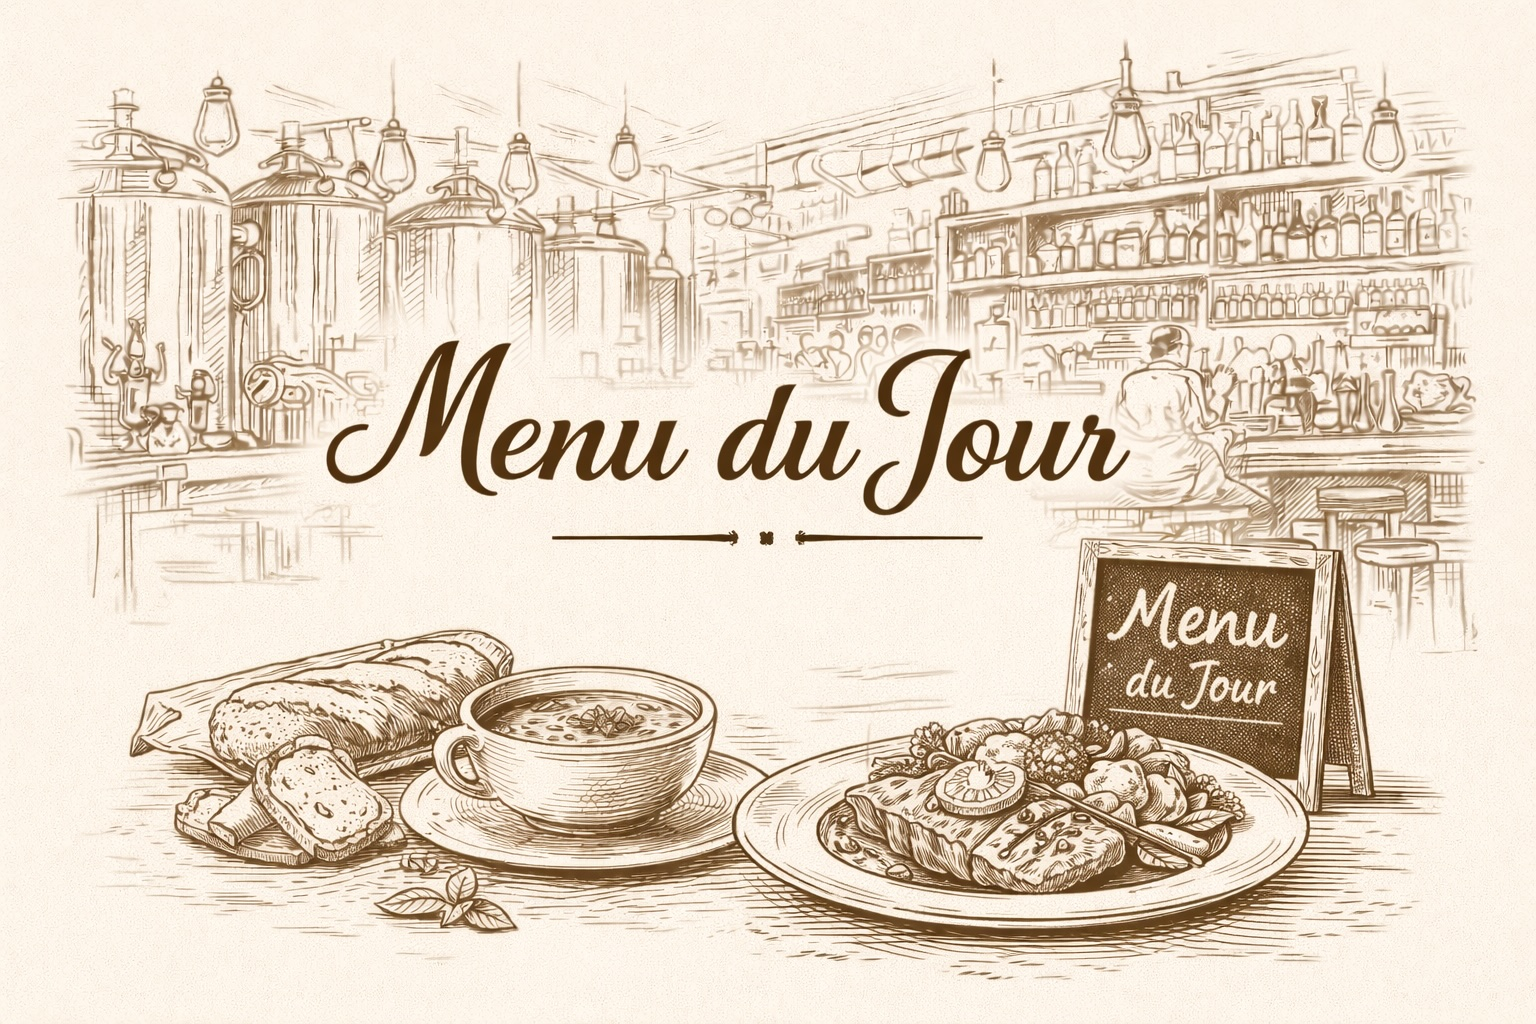
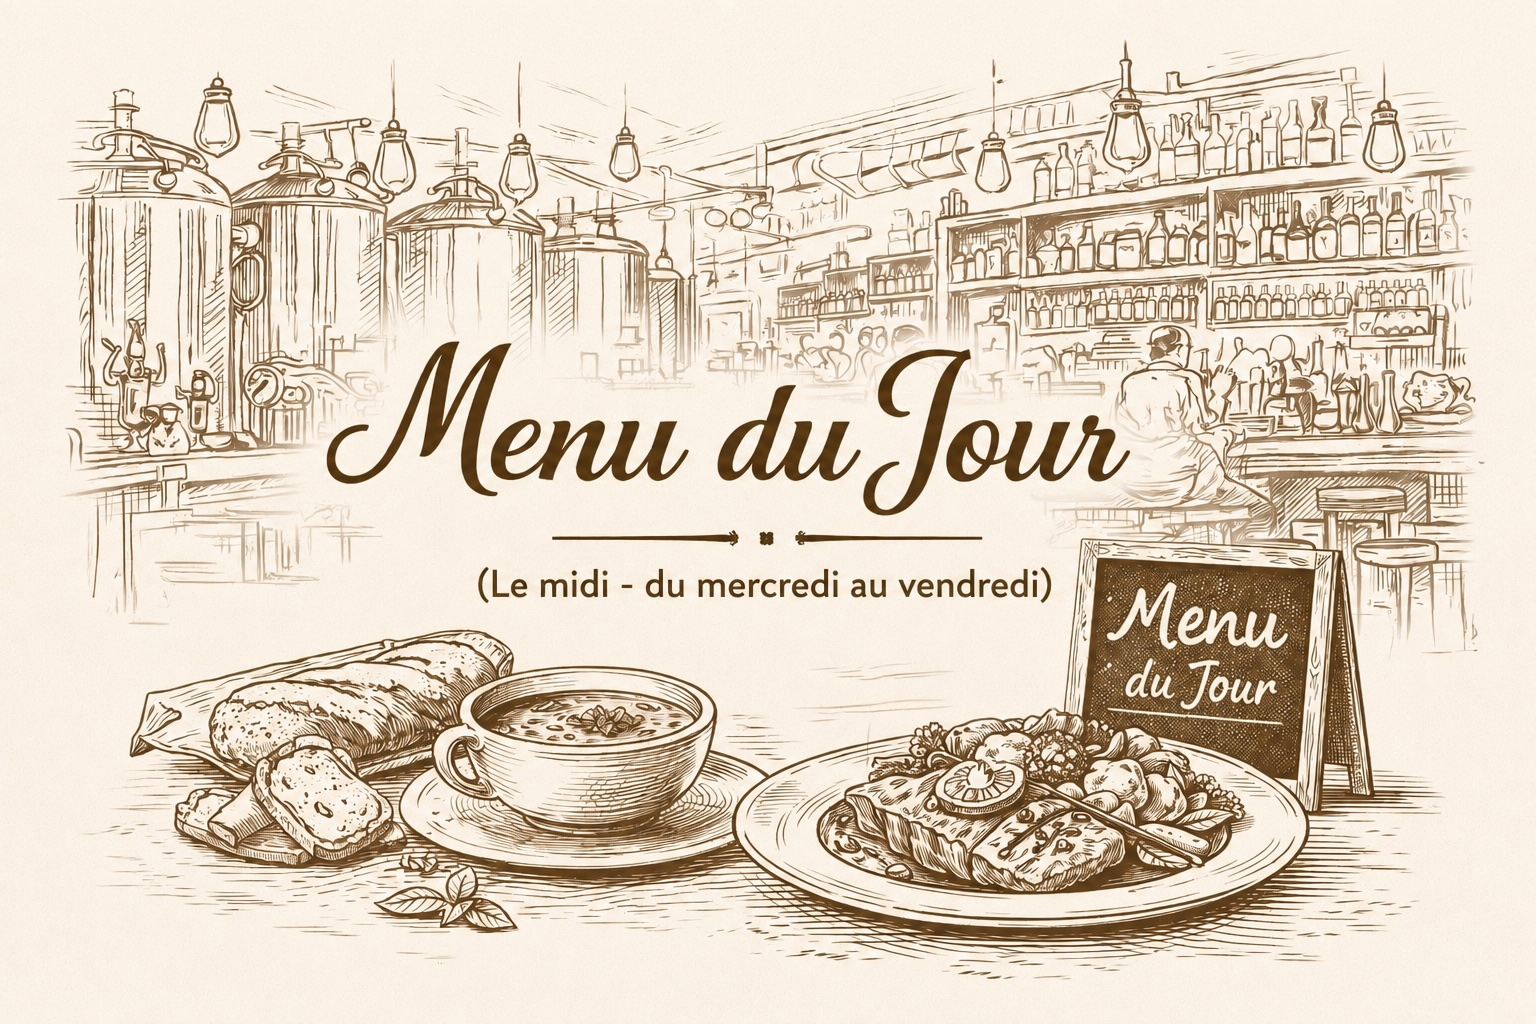
Modifications suite première présentation

diff --git a/src/app/cartePizzas/page.js b/src/app/cartePizzas/page.js
@@ -7,7 +7,7 @@ export default function CartePizzasPage() {
       <Header />
       <main className="py-8 px-4 max-w-4xl mx-auto bg-gray-50">
         <h1 className="text-3xl font-bold text-center mb-6">
-          Pizzas & Burgers (sur place ou à emporter)
+          Pizzas & Burgers à emporter
         </h1>
         <div className="bg-amber-50 rounded shadow p-4">
           <h2 className="text-xl font-semibold text-center underline">
@@ -23,7 +23,7 @@ export default function CartePizzasPage() {
                   cornichons, sauce burger
                 </p>
               </div>
-              <p>14.00€</p>
+              <p>13.00€</p>
             </li>
             <li className="flex justify-between my-2">
               <div className="flex flex-col">
@@ -33,7 +33,7 @@ export default function CartePizzasPage() {
                   confiture d&apos;oignons, cornichons, sauce burger
                 </p>
               </div>
-              <p>15.50€</p>
+              <p>14.50€</p>
             </li>
             <li className="flex justify-between my-2">
               <div className="flex flex-col">
@@ -43,7 +43,7 @@ export default function CartePizzasPage() {
                   confiture d&apos;oignons, cornichons, sauce burger
                 </p>
               </div>
-              <p>14.50€</p>
+              <p>13.50€</p>
             </li>
           </ul>
           <h2 className="text-xl font-semibold text-center underline mt-8">
@@ -55,21 +55,21 @@ export default function CartePizzasPage() {
                 <p>Bambino (enfant)</p>
                 <p className="text-gray-600">Tomate, mozzarella, jambon</p>
               </div>
-              <p>7.50€</p>
+              <p>6.50€</p>
             </li>
             <li className="flex justify-between my-2">
               <div className="flex flex-col">
                 <p>Margarita</p>
                 <p className="text-gray-600">Tomate, mozzarella, olives</p>
               </div>
-              <p>8.50€</p>
+              <p>7.50€</p>
             </li>
             <li className="flex justify-between my-2">
               <div className="flex flex-col">
                 <p>Venise</p>
                 <p className="text-gray-600">Tomate, mozzarella, jambon</p>
               </div>
-              <p>9.50€</p>
+              <p>8.50€</p>
             </li>
             <li className="flex justify-between my-2">
               <div className="flex flex-col">
@@ -78,7 +78,7 @@ export default function CartePizzasPage() {
                   Tomate, fromage, jambon, champignons
                 </p>
               </div>
-              <p>11.00€</p>
+              <p>10.00€</p>
             </li>
             <li className="flex justify-between my-2">
               <div className="flex flex-col">
@@ -87,7 +87,7 @@ export default function CartePizzasPage() {
                   Tomate, mozzarella, jambon cru, crème fraîche, oeuf
                 </p>
               </div>
-              <p>12.50€</p>
+              <p>11.50€</p>
             </li>
             <li className="flex justify-between my-2">
               <div className="flex flex-col">
@@ -96,7 +96,7 @@ export default function CartePizzasPage() {
                   Tomate, mozzarella, anchois, champignons, câpres, olives
                 </p>
               </div>
-              <p>13.00€</p>
+              <p>12.00€</p>
             </li>
             <li className="flex justify-between my-2">
               <div className="flex flex-col">
@@ -106,7 +106,7 @@ export default function CartePizzasPage() {
                   tomates cerises, olives, persillade
                 </p>
               </div>
-              <p>13.00€</p>
+              <p>12.00€</p>
             </li>
             <li className="flex justify-between my-2">
               <div className="flex flex-col">
@@ -115,7 +115,7 @@ export default function CartePizzasPage() {
                   Tomate, mozzarella, chèvre, gorgonzola, reblochon
                 </p>
               </div>
-              <p>13.00€</p>
+              <p>12.00€</p>
             </li>
             <li className="flex justify-between my-2">
               <div className="flex flex-col">
@@ -125,7 +125,7 @@ export default function CartePizzasPage() {
                   rouges
                 </p>
               </div>
-              <p>13.00€</p>
+              <p>12.00€</p>
             </li>
             <li className="flex justify-between my-2">
               <div className="flex flex-col">
@@ -135,7 +135,7 @@ export default function CartePizzasPage() {
                   persillade
                 </p>
               </div>
-              <p>13.00€</p>
+              <p>12.00€</p>
             </li>
             <li className="flex justify-between my-2">
               <div className="flex flex-col">
@@ -144,7 +144,7 @@ export default function CartePizzasPage() {
                   Tomate, mozzarella, chorizo, merguez, poivrons, oignons rouges
                 </p>
               </div>
-              <p>13.00€</p>
+              <p>12.00€</p>
             </li>
             <li className="flex justify-between my-2">
               <div className="flex flex-col">
@@ -154,7 +154,7 @@ export default function CartePizzasPage() {
                   lardons, crème fraîche
                 </p>
               </div>
-              <p>14.00€</p>
+              <p>13.00€</p>
             </li>
             <li className="flex justify-between my-2">
               <div className="flex flex-col">
@@ -164,7 +164,7 @@ export default function CartePizzasPage() {
                   ananas
                 </p>
               </div>
-              <p>14.00€</p>
+              <p>13.00€</p>
             </li>
             <li className="flex justify-between my-2">
               <div className="flex flex-col">
@@ -174,7 +174,7 @@ export default function CartePizzasPage() {
                   rouges, sauce blanche
                 </p>
               </div>
-              <p>14.00€</p>
+              <p>13.00€</p>
             </li>
             <li className="flex justify-between my-2">
               <div className="flex flex-col">
@@ -184,7 +184,7 @@ export default function CartePizzasPage() {
                   d&apos;ail
                 </p>
               </div>
-              <p>14.50€</p>
+              <p>13.50€</p>
             </li>
             <li className="flex justify-between my-2">
               <div className="flex flex-col">
@@ -197,7 +197,7 @@ export default function CartePizzasPage() {
                   Modification en base crème: +0.50€
                 </p>
               </div>
-              <p>15.50€</p>
+              <p>14.50€</p>
             </li>
           </ul>
           <p className="underline mt-4 font-bold">Base crème:</p>
@@ -211,7 +211,7 @@ export default function CartePizzasPage() {
                   </p>
                 </div>
               </div>
-              <p>14.50€</p>
+              <p>12.50€</p>
             </li>
             <li className="flex justify-between my-2">
               <div className="flex flex-col">
@@ -221,7 +221,7 @@ export default function CartePizzasPage() {
                   Rhuys, champignons
                 </p>
               </div>
-              <p>14.00€</p>
+              <p>13.00€</p>
             </li>
             <li className="flex justify-between my-2">
               <div className="flex flex-col">
@@ -230,19 +230,28 @@ export default function CartePizzasPage() {
                   Crème fraîche, mozzarella, chèvre, coppa, oignons rouges, miel
                 </p>
               </div>
-              <p>13.00€</p>
+              <p>12.00€</p>
             </li>
             <li className="flex justify-between my-2">
               <div className="flex flex-col">
-                <p className="font-bold">Supplément hors viande</p>
+                <p className="font-bold">
+                  <sup>*</sup>Modification en base crème
+                </p>
+              </div>
+              <p>+0.50€</p>
+            </li>
+            <li className="flex justify-between my-2">
+              <div className="flex flex-col">
+                <p className="font-bold">
+                  <sup>*</sup>Supplément légumes, oeuf
+                </p>
               </div>
               <p>1.30€</p>
             </li>
             <li className="flex justify-between my-2">
               <div className="flex flex-col">
-                <p className="font-bold">Supplément viande</p>
-                <p className="text-gray-600">
-                  merguez, chorizo, poulet, viande hachée
+                <p className="font-bold">
+                  <sup>*</sup>Supplément viande, poisson
                 </p>
               </div>
               <p>1.80€</p>

diff --git a/src/components/Section1Contact/index.jsx b/src/components/Section1Contact/index.jsx
@@ -25,12 +25,12 @@ export function Section1Contact() {
                   Téléphone : [phone redacted]
                 </a>
                 <br />
-                <a
+                {/*<a
                   href="mailto:[email redacted]"
                   className="hover:underline"
                 >
                   Email : [email redacted]
-                </a>
+                </a>*/}
               </p>
             </div>
           </div>
@@ -41,7 +41,22 @@ export function Section1Contact() {
             <p>
               Lundi - Mardi : Fermé
               <br />
-              Mercredi - Dimanche : 09h00 - 22h00
+              <span className="font-semibold underline">Bar</span>
+              <br />
+              Mercredi - Dimanche : 10h00 - 22h00
+              <br />
+              <span className="font-semibold underline">Restaurant</span>
+              <br />
+              midi: 12h00 - 14h00
+              <br />
+              soir: 19h00 - 20h30<sup className="text-sm font-light">
+                *
+              </sup>{' '}
+              (fin de service)
+              <br />
+              <span className="text-sm font-light">
+                *21h00 le vendredi et samedi
+              </span>
             </p>
           </div>
         </div>

diff --git a/src/app/page.js b/src/app/page.js
@@ -1,9 +1,9 @@
-import Image from 'next/image';
-import Header from '@/components/Header';
-import Footer from '@/components/Footer';
-import { Section1Accueil } from '@/components/Section1Accueil';
-import { Section2Accueil } from '@/components/Section2Accueil';
-import Gallery250 from '@/components/Gallery250';
+import Image from 'next/image'
+import Header from '@/components/Header'
+import Footer from '@/components/Footer'
+import { Section1Accueil } from '@/components/Section1Accueil'
+import { Section2Accueil } from '@/components/Section2Accueil'
+import Gallery250 from '@/components/Gallery250'
 
 export default function Home() {
   return (
@@ -11,8 +11,10 @@ export default function Home() {
       <Header />
       <Section1Accueil />
       <Section2Accueil />
-      <Gallery250 />
+      {
+        //<Gallery250 />
+      }
       <Footer />
     </>
-  );
+  )
 }

diff --git a/src/components/Footer/index.jsx b/src/components/Footer/index.jsx
@@ -1,5 +1,5 @@
 // Composant Footer (daisyUI)
-import Link from 'next/link';
+import Link from 'next/link'
 
 export default function Footer() {
   return (
@@ -20,7 +20,7 @@ export default function Footer() {
             Restaurant & bar — pizzeria - burgers, cuisine locale et ambiance
             bord de mer.
             <br />
-            Sur place ou à emporter.
+            <span className="font-semibold">Sur place ou à emporter.</span>
           </p>
         </div>
 
@@ -53,7 +53,7 @@ export default function Footer() {
         <div>
           <h3 className="footer-title">Contact</h3>
           <a
-            href="tel:[phone redacted]"
+            href="tel:[phone redacted]"
             className="flex items-center gap-3 text-base md:text-lg text-red-800 hover:text-red-700"
           >
             <svg
@@ -85,7 +85,7 @@ export default function Footer() {
 
           <div className="mt-4 flex gap-3">
             <a
-              href="#"
+              href="https://www.facebook.com/p/La-Chaloupe-100057433330072/"
               aria-label="Facebook"
               className="btn btn-ghost btn-sm rounded-full"
             >
@@ -109,5 +109,5 @@ export default function Footer() {
         </p>
       </div>
     </footer>
-  );
+  )
 }

diff --git a/src/components/Section1Accueil/index.jsx b/src/components/Section1Accueil/index.jsx
@@ -6,10 +6,10 @@ import { AnimatePresence, motion } from 'framer-motion'
 export function Section1Accueil() {
   const images = useMemo(
     () => [
-      '/chaloupeGrandAngle.avif',
-      '/section1AccueilImg2.avif',
-      '/section1AccueilImg3.avif',
-      '/pontNoyalo.avif',
+      '/chaloupePresentation1.avif',
+      '/chaloupe4.avif',
+      '/chaloupe5.avif',
+      '/chaloupe6.avif',
     ],
     []
   )

diff --git a/src/components/Header/index.jsx b/src/components/Header/index.jsx
@@ -139,9 +139,9 @@ const Header = () => {
         <div className="navbar-end">
           {/* Lien `tel:` ouvre le composeur sur mobile. Couleurs pastel pour style doux. */}
           <a
-            href="tel:[phone redacted]"
+            href="tel:[phone redacted]"
             className="btn text-lg md:text-xl flex items-center bg-red-200 text-red-800 hover:bg-red-300 border-transparent shadow-sm focus:outline-none"
-            aria-label="Appeler [phone redacted] 92"
+            aria-label="Appeler [phone redacted] 48"
           >
             {/* Icône téléphone SVG (inline pour éviter dépendances supplémentaires) */}
             <svg

diff --git a/src/app/carte/page.js b/src/app/carte/page.js
@@ -15,7 +15,7 @@ export default function CartePage() {
         </a>
 
         <a href="/cartePizzas" className="inline-block focus:outline-none">
-          <img src="/cartePizzas.jpg" alt="Carte Pizzas & Burgers" />
+          <img src="/carteAemporter.jpg" alt="Carte Pizzas & Burgers" />
         </a>
 
         <a

diff --git a/src/components/RestaurantSection1/index.jsx b/src/components/RestaurantSection1/index.jsx
@@ -5,7 +5,7 @@ export function RestaurantSection1() {
         <div className=" flex flex-col sm:flex-row items-center gap-6">
           <div className="my-6 w-full sm:w-1/2">
             <img
-              src="/salleChaloupe.avif"
+              src="/chaloupeInterieurSalle.avif"
               alt="Salle de La Chaloupe"
               className="mx-auto rounded-md w-full max-w-lg object-cover"
             />

diff --git a/src/components/RestaurantSection3/index.jsx b/src/components/RestaurantSection3/index.jsx
@@ -5,7 +5,7 @@ export function RestaurantSection3() {
         <div className=" flex flex-col sm:flex-row items-center gap-6">
           <div className="my-6 w-full sm:w-1/2">
             <img
-              src="/terrasseChaloupe.avif"
+              src="/chaloupeTerrasse.avif"
               alt="Terrasse de La Chaloupe"
               className="mx-auto rounded-md w-full max-w-lg object-cover"
             />